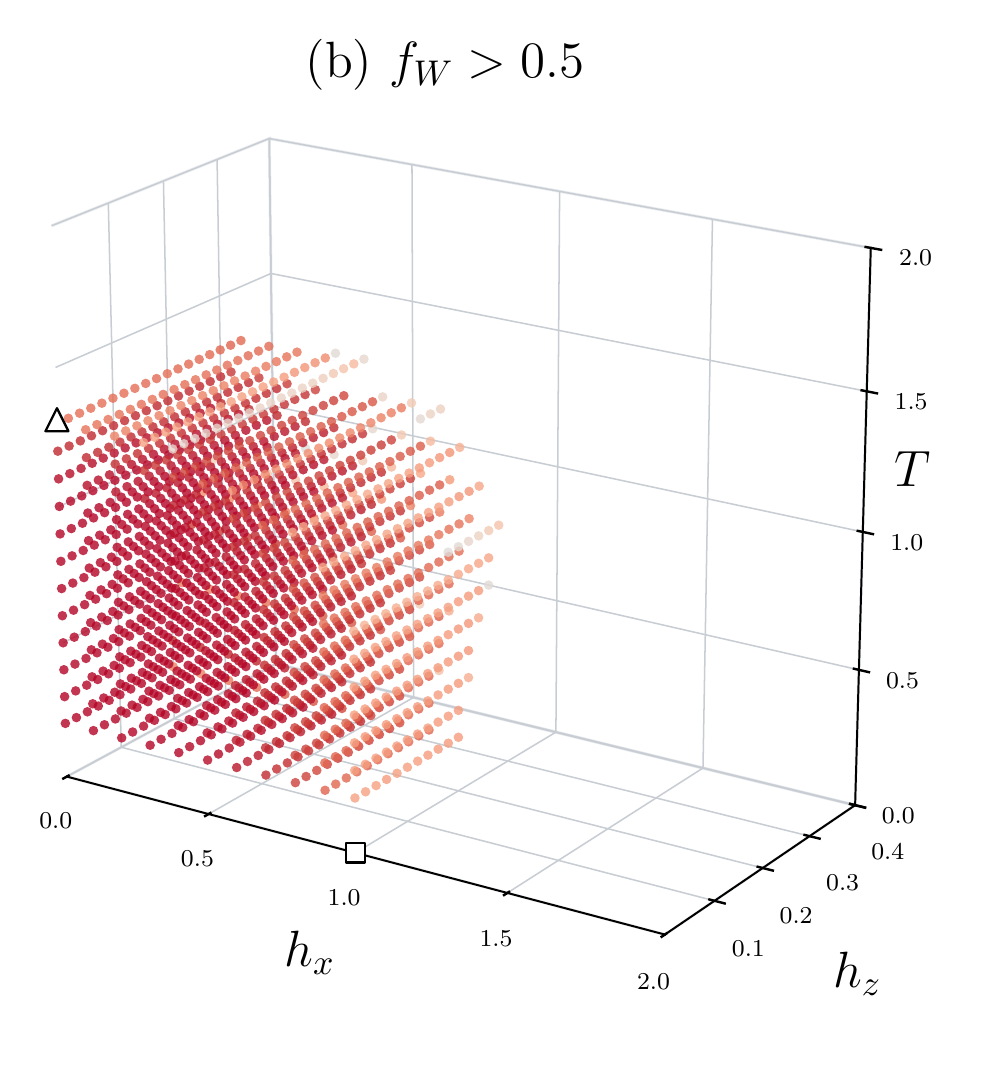
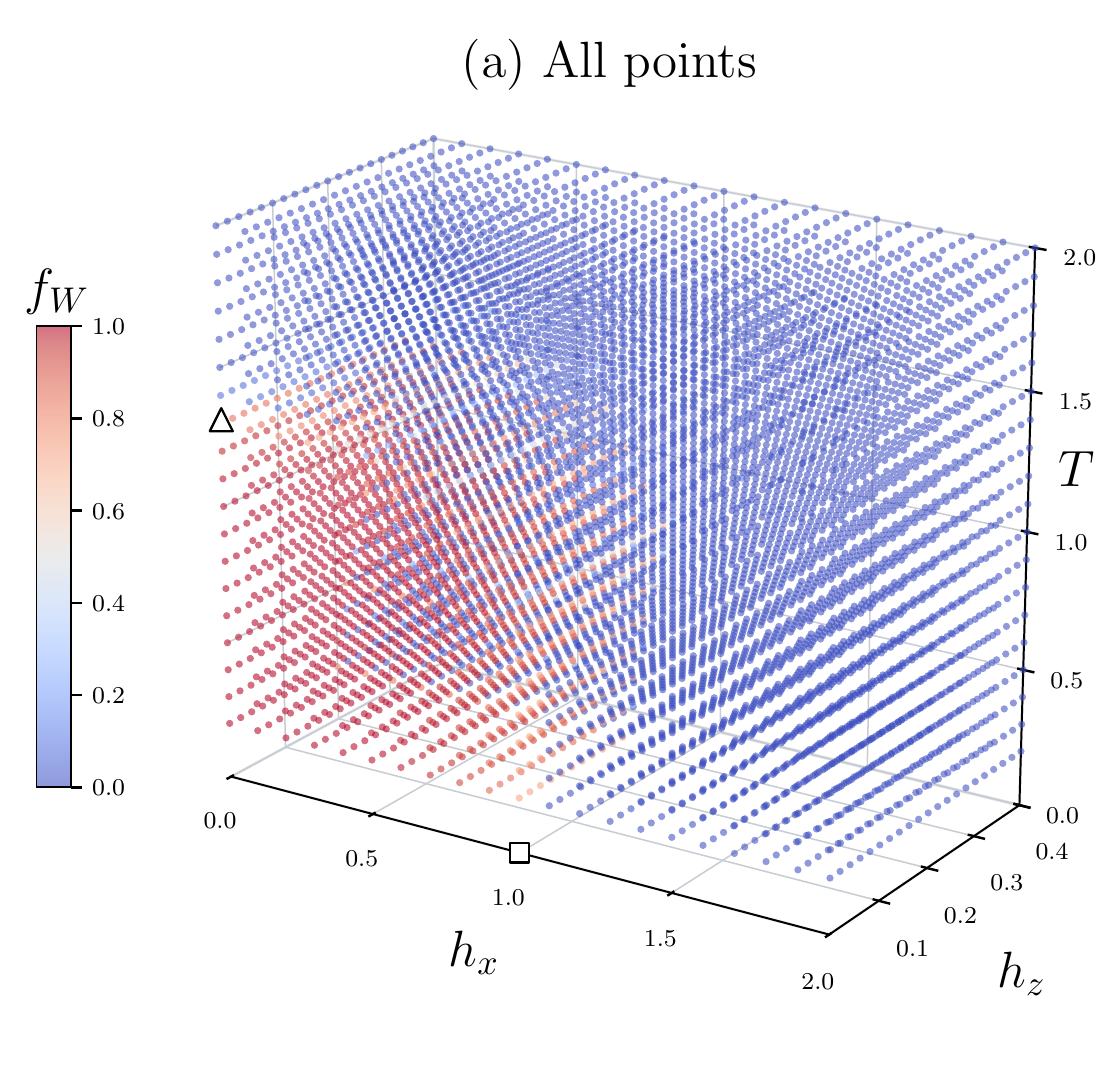
Use Fig. 7(a) for finite-temperature research overview

diff --git a/en/research.html b/en/research.html
@@ -280,10 +280,10 @@
 <h2 id="finite-temperature-topological-phases">6. Topological phases at finite temperature</h2>
 
 <figure class="research-figure">
-  <img src="../research/finite_temperature_toric_code.png" width="984" height="1068" alt="Three-dimensional plot of decoded Wilson-loop correlations in temperature and magnetic-field space" />
+  <img src="../research/finite_temperature_toric_code.png?v=20261015-fig7a" width="1110" height="1068" alt="All decoded Wilson-loop correlation estimates, color-coded in temperature and magnetic-field space" />
   <figcaption>
-    Quantum Monte Carlo estimates of the connected correlation of decoded Wilson loops at $L=8$: points with $f_W>0.5$ in field–temperature space ($h_x,h_z,T$).
-    From Fig. 7(b) of <a href="https://arxiv.org/abs/2607.00134v3">arXiv:2607.00134v3</a>.
+    Quantum Monte Carlo estimates of the connected correlation of decoded Wilson loops at $L=8$. All 8,379 estimates are shown in field–temperature space ($h_x,h_z,T$), with color indicating the correlation $f_W$.
+    From Fig. 7(a) of <a href="https://arxiv.org/abs/2607.00134v3">arXiv:2607.00134v3</a>.
   </figcaption>
 </figure>
 

diff --git a/research.html b/research.html
@@ -350,11 +350,11 @@
 <h2 id="finite-temperature-topological-phases">6. 有限温度のトポロジカル相</h2>
 
 <figure class="research-figure">
-  <img src="research/finite_temperature_toric_code.png" width="984" height="1068" alt="温度と2方向の磁場に対する復号後のウィルソンループ相関の数値計算" />
+  <img src="research/finite_temperature_toric_code.png?v=20261015-fig7a" width="1110" height="1068" alt="温度と2方向の磁場に対する復号後のウィルソンループ相関の全データを色分けした数値計算" />
   <figcaption>
     局所的な誤り訂正後のウィルソンループの連結相関 $f_W$ の量子モンテカルロ計算。
-    温度 $T$ と2方向の磁場 $h_x,h_z$ に対し、$f_W>0.5$ となるデータ点を表示（$L=8$）。
-    <a href="https://arxiv.org/abs/2607.00134v3">arXiv:2607.00134v3</a> の図7(b)。
+    温度 $T$ と2方向の磁場 $h_x,h_z$ に対する全8,379点を示し、色で相関の値を表す（$L=8$）。
+    <a href="https://arxiv.org/abs/2607.00134v3">arXiv:2607.00134v3</a> の図7(a)。
   </figcaption>
 </figure>
 

diff --git a/zh/research.html b/zh/research.html
@@ -280,11 +280,11 @@
 <h2 id="finite-temperature-topological-phases">6. 有限溫度下的拓撲相</h2>
 
 <figure class="research-figure">
-  <img src="../research/finite_temperature_toric_code.png" width="984" height="1068" alt="解碼後的 Wilson 迴路關聯隨溫度及兩個方向磁場變化的三維散點圖" />
+  <img src="../research/finite_temperature_toric_code.png?v=20261015-fig7a" width="1110" height="1068" alt="以顏色顯示解碼後的 Wilson 迴路關聯隨溫度及兩個方向磁場變化的全部數據" />
   <figcaption>
     局部錯誤更正後的 Wilson 迴路連通關聯 $f_W$ 的量子蒙地卡羅計算結果。
-    圖中顯示溫度 $T$ 與兩個方向磁場 $h_x,h_z$ 空間內，$f_W>0.5$ 的數據點（$L=8$）。
-    取自 <a href="https://arxiv.org/abs/2607.00134v3">arXiv:2607.00134v3</a> 圖7(b)。
+    圖中顯示溫度 $T$ 與兩個方向磁場 $h_x,h_z$ 空間內的全部8,379個數據點，顏色表示關聯的數值（$L=8$）。
+    取自 <a href="https://arxiv.org/abs/2607.00134v3">arXiv:2607.00134v3</a> 圖7(a)。
   </figcaption>
 </figure>
 
